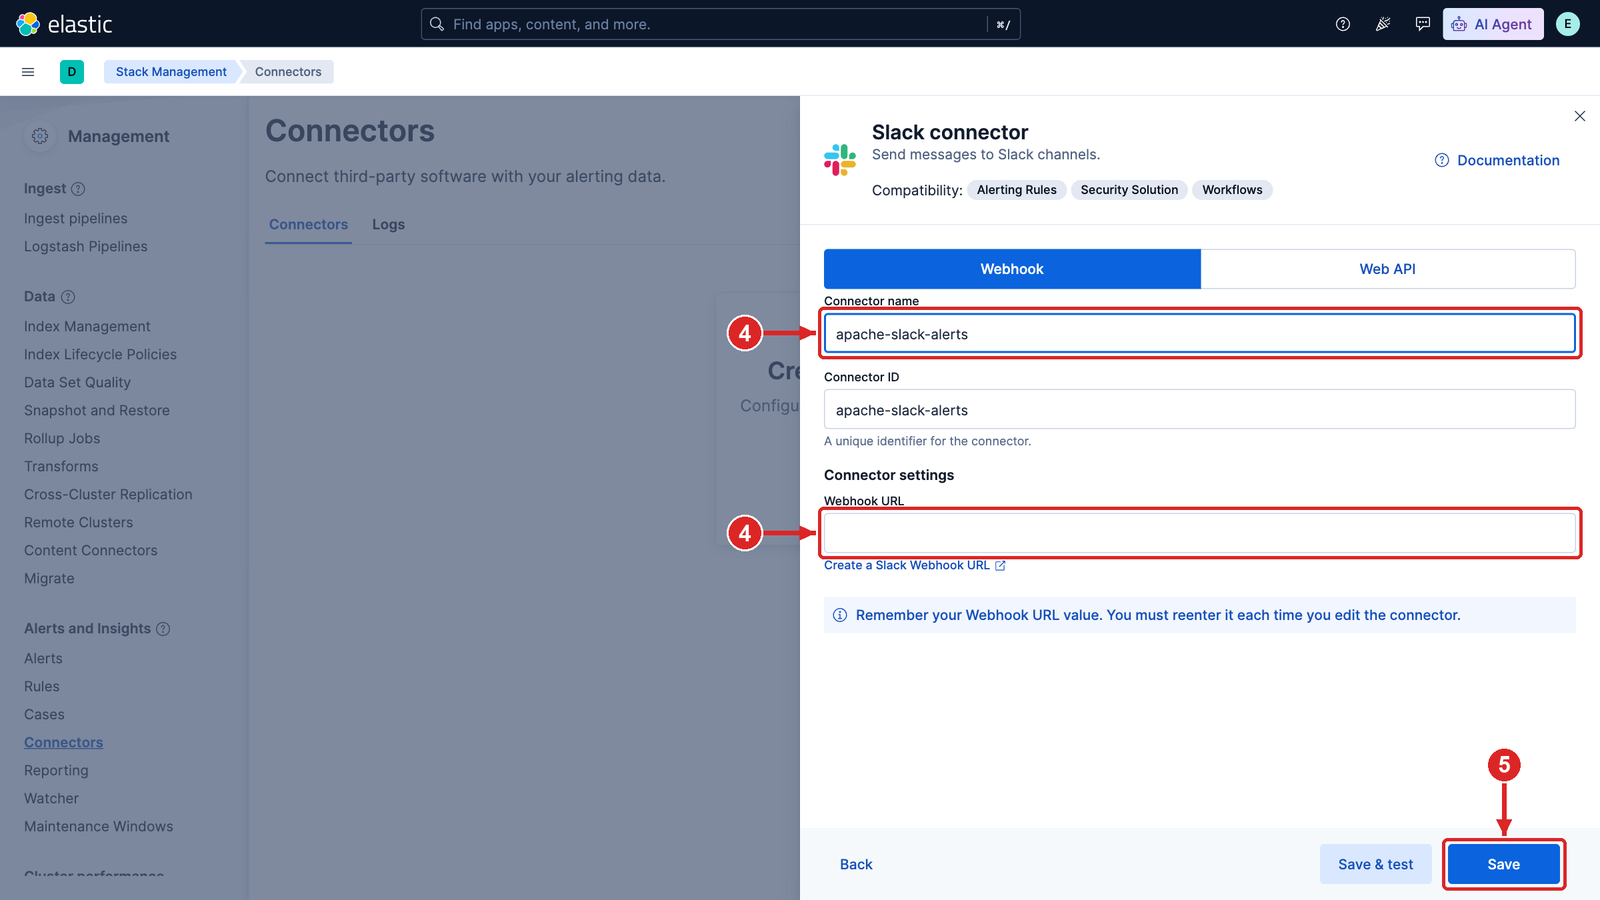
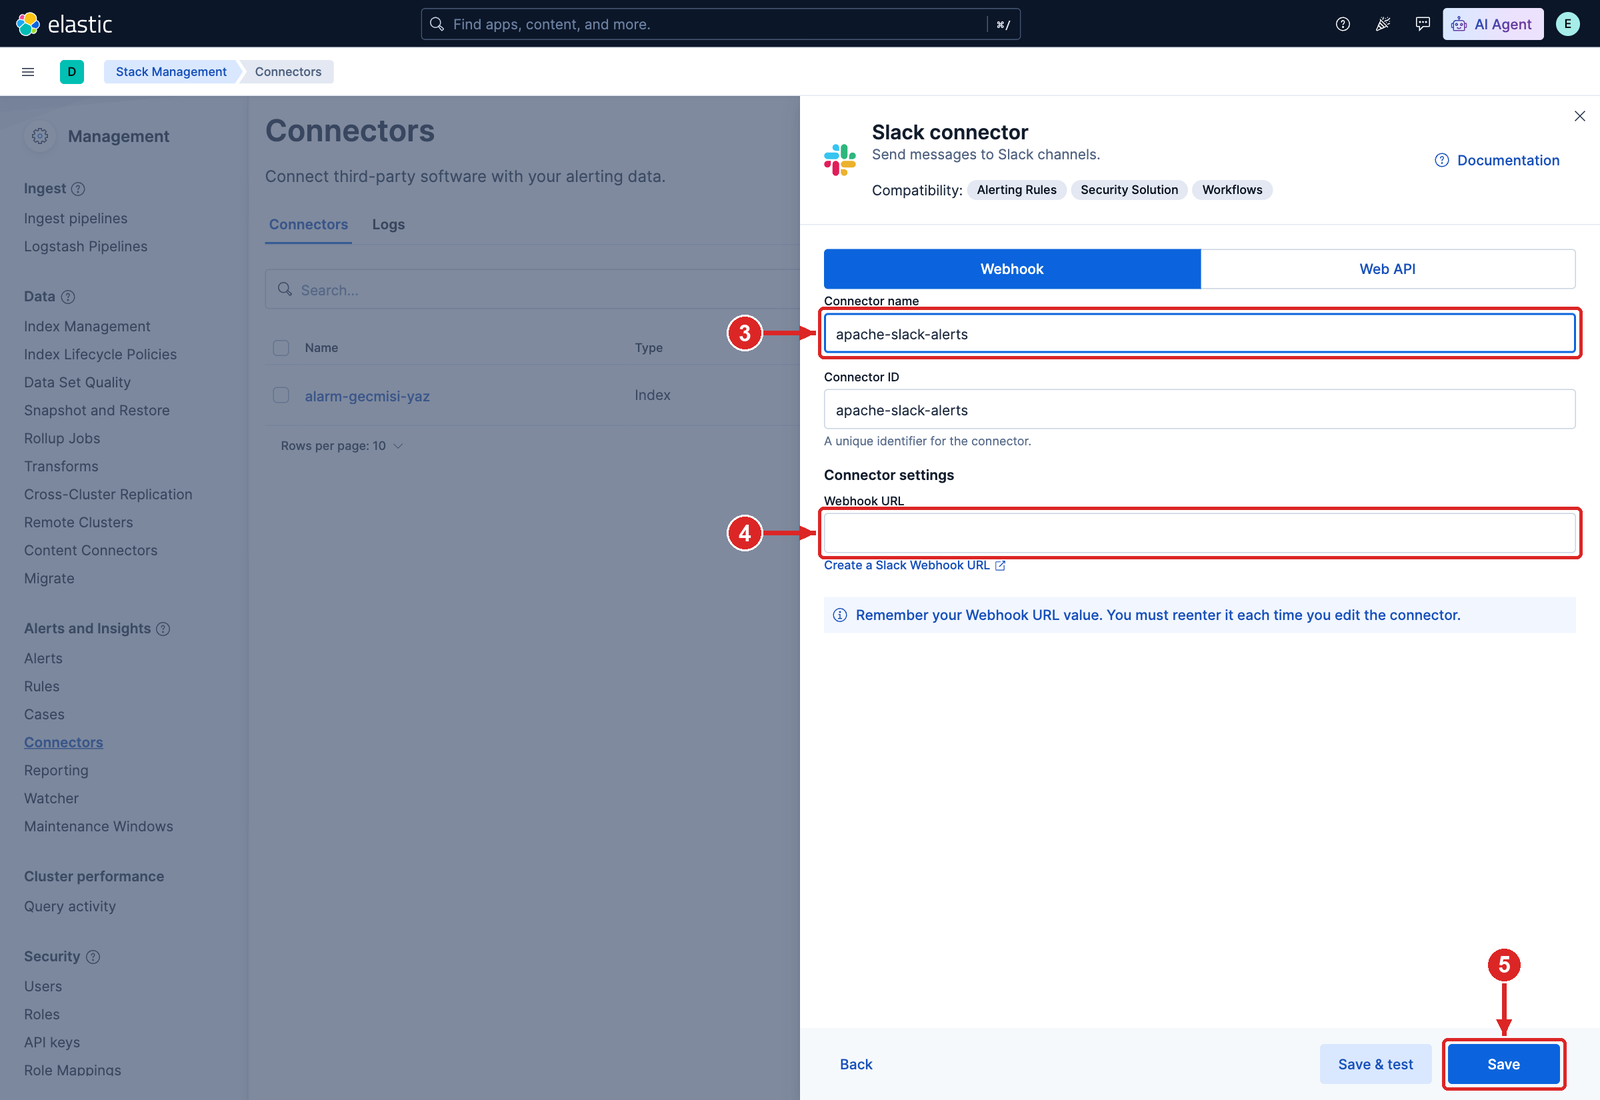
docs(LAB-18): Email connector on port 587 (STARTTLS, Secure off); every connector click on its own marked screenshot
Bulunan hata: 14-connector-email-resend.png port 465 iken Secure'ü kapalı
gösteriyordu; README tablosu "465, Secure açık" diyordu. Görüntüdeki gibi
yapılırsa Kibana Resend'e düz bağlanır ve test e-postası gitmez.

Kullanıcı kararıyla port 587'ye geçildi: Secure kapalı, bağlantı STARTTLS ile
şifrelenir. README'ye "Secure neden kapalı?" açıklaması ve 587/465 kuralı eklendi.
Kibana bölümü adım adım: 12 Create connector, 13a Slack kartı, 13 Slack formu,
14a Email kartı, 14 Email formu (numaralı alanlar + tablo), Test sekmesi.

Görüntüler test sunucusundaki Kibana 9.5.5'ten Playwright ile alındı; form yalnız
dolduruldu, kaydedilmedi, test gönderilmedi. Çekimden önce ve sonra connector
listesi aynı: ['alarm-gecmisi-yaz'].
Kontrol: readme_komut_denetimi "AYNI 13 blok"; link_kontrol LAB-18 kırık link 0.

diff --git a/labs/LAB-18-alerting-raporlama/README.md b/labs/LAB-18-alerting-raporlama/README.md
@@ -399,25 +399,43 @@ Doğrulanmış bir alan adınız yoksa Resend yalnız hesabınızın e-posta adr
 
 **Kibana: iki connector**
 
-1. **Stack Management › Connectors › Create connector › Slack**, **Webhook** sekmesi: **Connector name**
-   `apache-slack-alerts`, **Webhook URL** Slack'ten kopyaladığınız adres, **Save**. **Save & test** ile açılan
-   **Test** sekmesinde bir mesaj yazıp **Run**; mesaj kanala düşer:
+1. **Stack Management › Connectors**'ta **Create connector** (1):
 
-   ![Slack connector formu](../../assets/screenshots/LAB-18/13-connector-create-slack.png)
+   ![Connectors: 1 Create connector](../../assets/screenshots/LAB-18/12-connectors-list.png)
 
-2. Yeniden **Create connector › Email**:
+2. Arama kutusuna `Slack` yazın ve **Slack** kartını (2) seçin. Slack (v2) değil; webhook ile çalışan sürüm budur:
 
-   | Alan | Değer |
-   |---|---|
-   | Connector name | `apache-email-resend` |
-   | Sender | `onboarding@resend.dev` |
-   | Service | `Other` |
-   | Host / Port | `smtp.resend.com` / `465`, **Secure** açık |
-   | Username / Password | `resend` / Resend API anahtarı |
+   ![Connector türü: 2 Slack](../../assets/screenshots/LAB-18/13a-connector-select-slack.png)
 
-   ![E-posta connector formu](../../assets/screenshots/LAB-18/14-connector-email-resend.png)
+3. **Webhook** sekmesinde **Connector name** (3) `apache-slack-alerts`, **Webhook URL** (4) Slack'ten kopyaladığınız
+   adres, **Save** (5):
 
-   **Save & test**; **Test** sekmesinde **To** alanına Resend hesabınızın e-posta adresini yazıp **Run**.
+   ![Slack connector: 3 Connector name, 4 Webhook URL, 5 Save](../../assets/screenshots/LAB-18/13-connector-create-slack.png)
+
+4. Yeniden **Create connector**; arama kutusuna `Email` yazın ve **Email** kartını (1) seçin:
+
+   ![Connector türü: 1 Email](../../assets/screenshots/LAB-18/14a-connector-select-email.png)
+
+5. Formu doldurun ve **Save** (8):
+
+   ![Email connector: 2 ad, 3 Sender, 4 Service, 5 Host ve Port, 6 Secure kapalı, 7 Username ve Password, 8 Save](../../assets/screenshots/LAB-18/14-connector-email-resend.png)
+
+   | No | Alan | Değer |
+   |---|---|---|
+   | 2 | Connector name | `apache-email-resend` |
+   | 3 | Sender | `onboarding@resend.dev` |
+   | 4 | Service | `Other` |
+   | 5 | Host / Port | `smtp.resend.com` / `587` |
+   | 6 | Secure | **kapalı** bırakın |
+   | 7 | Username / Password | `resend` / Resend API anahtarı |
+
+   **Secure neden kapalı?** Bağlantı yine şifrelidir. Port 587'de Kibana önce normal bağlanır, sunucu izin verince
+   bağlantıyı TLS'e yükseltir (STARTTLS). **Secure** anahtarı ise "baştan TLS ile bağlan" demektir ve yalnız port
+   465 içindir. 587'de Secure'ü açarsanız bağlantı kurulamaz, test e-postası gitmez. Kural kısaca:
+   587 → Secure kapalı, 465 → Secure açık.
+
+6. Kaydedince açılan **Test** sekmesinde: Slack'te bir mesaj yazıp **Run**, mesaj kanala düşer; Email'de **To**
+   alanına Resend hesabınızın e-posta adresini yazıp **Run**.
 
 Kurala ikinci bir action olarak eklenir; mesajda aynı değişkenler kullanılır
 (`{{rule.name}}`, `{{context.value}}`, `{{context.link}}`). Linklerin dolu gelmesi için Kibana'da
